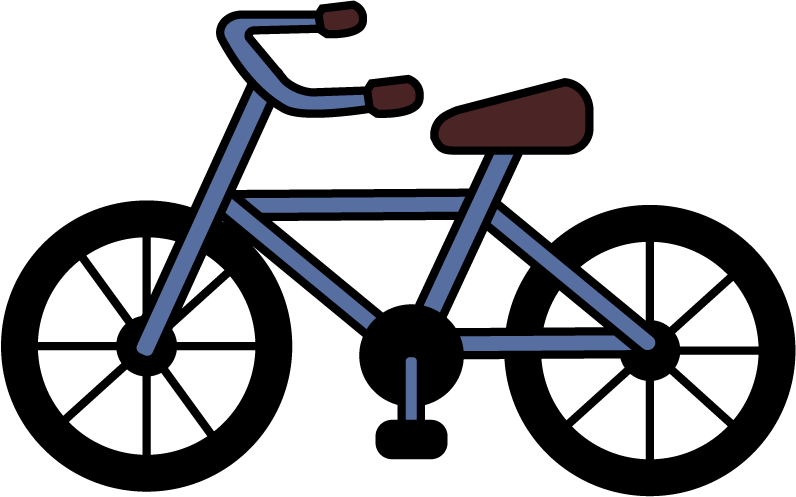
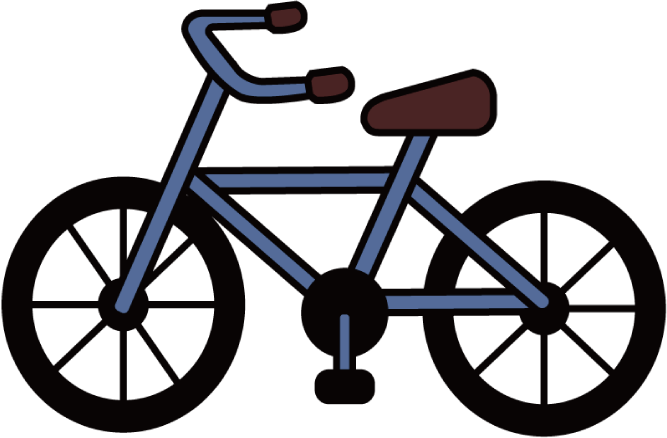
Create left and right animations and add animations into Bike class

diff --git a/src/main/java/deco2800/skyfall/entities/MainCharacter.java b/src/main/java/deco2800/skyfall/entities/MainCharacter.java
@@ -1848,6 +1848,14 @@ public class MainCharacter extends Peon implements KeyDownObserver,
         addAnimations(AnimationRole.STILL, Direction.DEFAULT,
                 new AnimationLinker("MainCharacter_Dead_E_Still",
                         AnimationRole.STILL, Direction.DEFAULT, false, true));
+
+        // Add bike animation
+        addAnimations(AnimationRole.VEHICLE_MOVE, Direction.WEST,
+                new AnimationLinker("bikeW",
+                        AnimationRole.VEHICLE_MOVE, Direction.WEST, true, true));
+        addAnimations(AnimationRole.VEHICLE_MOVE, Direction.EAST,
+                new AnimationLinker("bikeE",
+                        AnimationRole.VEHICLE_MOVE, Direction.EAST, true, true));
     }
 
     private Map<Direction,String> defaultMainCharacterTextureMap=new HashMap<>();
@@ -1913,7 +1921,7 @@ public class MainCharacter extends Peon implements KeyDownObserver,
             }
 
         }else{
-
+            setCurrentState(AnimationRole.VEHICLE_MOVE);
         }
     }
 

diff --git a/src/main/java/deco2800/skyfall/managers/AnimationManager.java b/src/main/java/deco2800/skyfall/managers/AnimationManager.java
@@ -43,6 +43,10 @@ public class AnimationManager extends AbstractManager {
         this.generateAnimationObject("mario_left",
                 "mario_left", 100, 138, DEFAULT_FRAME_RATE);
 
+        // Add bike animation
+        this.generateAnimationObject("bikeW","resources/Bike_Left_Animation/left.atlas",0.05f);
+        this.generateAnimationObject("bikeE","resources/Bike_Right_Animation/right.atlas",0.05f);
+
         this.generateAnimationObject("whitebearNE","resources/whitebearright/whitebearright.atlas",0.05f);
         this.generateAnimationObject("whitebearN","resources/whitebearback/whitebearback.atlas",0.05f);
         this.generateAnimationObject("whitebearNW","resources/whitebearleft/whitebearleft.atlas",0.05f);

diff --git a/src/main/java/deco2800/skyfall/managers/TextureManager.java b/src/main/java/deco2800/skyfall/managers/TextureManager.java
@@ -115,7 +115,7 @@ public class TextureManager extends AbstractManager {
             textureMap.put("bikeSOUTH", new Texture("resources/Bike/bike-face-player.png"));
             textureMap.put("bikeNORTH", new Texture("resources/Bike/back-side-player.png"));
             textureMap.put("bikeWEST", new Texture("resources/Bike/leftside-player.png"));
-            textureMap.put("bikeEAST", new Texture("resources/Bike/rightside-player.png"));
+            textureMap.put("bikeEAST", new Texture("resources/Bike/rightside-player 1.png"));
 
 
 
